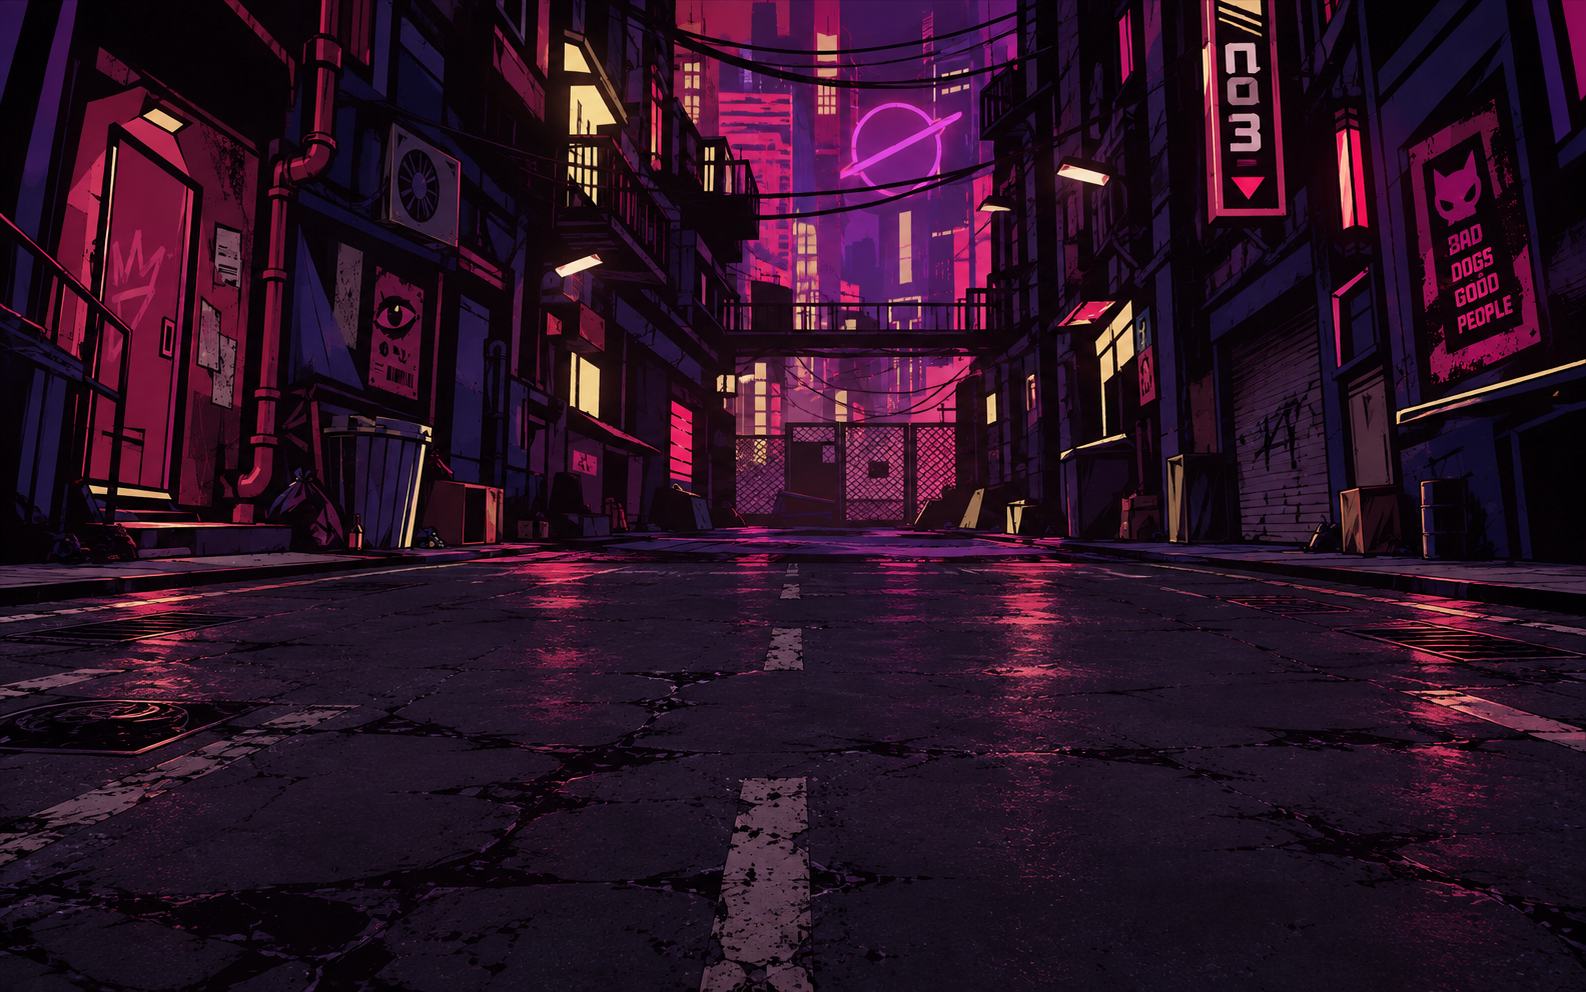
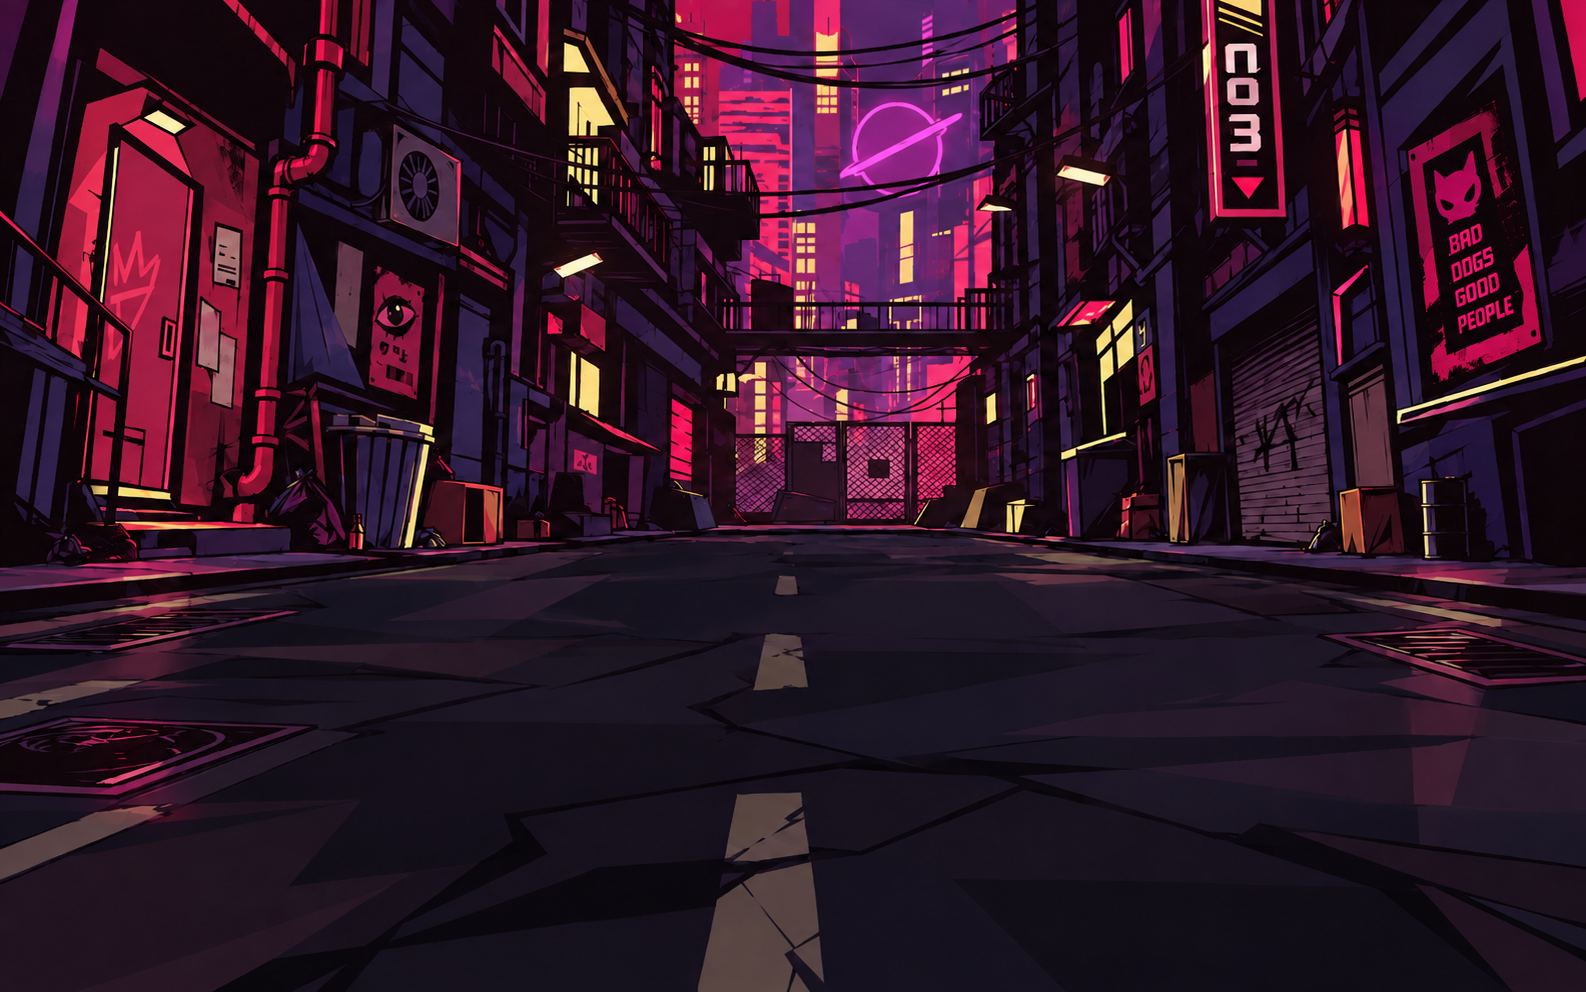
美术修改

diff --git a/docs/维护文档.md b/docs/维护文档.md
@@ -2,7 +2,7 @@
 
 本文面向继续开发本项目的人或 AI 助手，说明改动位置、需要保持的行为、测试方法和故障排查顺序。维护目标是减少功能回退、重复结算、存档丢失和界面误操作；测试覆盖的是当前原型，扩展规则时仍需补充对应检查。
 
-核对日期：**2026-10-07，Asia/Shanghai**。当前基线：**0.3.15-fix**，Godot **4.7.2 standard / Compatibility**，逻辑画布 **1440×900**，默认窗口 **1280×800**，缩放模式为 `canvas_items`。其他 Godot 4.x 版本尚不能视为已验证。
+核对日期：**2026-10-07，Asia/Shanghai**。当前基线：**0.3.17-art**，Godot **4.7.2 standard / Compatibility**，逻辑画布 **1440×900**，默认窗口 **1280×800**，缩放模式为 `canvas_items`。其他 Godot 4.x 版本尚不能视为已验证。
 
 历史变化见 [修改记录](修改记录.md)，功能接入参考 [开发接入说明](开发接入说明.md)，历史原始输出见 [验收记录](验收记录.txt)。本文描述当前代码；文中标明“扩展前需要处理”的内容尚未实现。
 
@@ -125,7 +125,7 @@
 
 ### 当前 UI 约定
 
-- 后巷战斗背景由 `assets.alley.battleAssetId = alley_battle` 指向 `assets/backgrounds/alley_battle.png`。`battle.gd.battle_background()` 优先读取地点原资源上的该可选字段；未配置或目标纹理不可用时调用原 `background()`。有专用背景时关闭 `arena.paint_ground`，直接使用插画路面，并将底部硬色块／红色分隔线替换为 y=650 起的柔和渐暗，不影响点击。对白继续读取原 `alley.png`。此轮仅完成后巷专用美术，其他地点没有新增背景。
+- 后巷战斗背景素材于2026-10-07替换为用户最新提供的暗色路面版PNG，文件字节直接复制，沿用原缩放和暗化叠层。后巷战斗背景由 `assets.alley.battleAssetId = alley_battle` 指向 `assets/backgrounds/alley_battle.png`。`battle.gd.battle_background()` 优先读取地点原资源上的该可选字段；未配置或目标纹理不可用时调用原 `background()`。有专用背景时关闭 `arena.paint_ground`，直接使用插画路面，并将底部硬色块／红色分隔线替换为 y=650 起的柔和渐暗，不影响点击。对白继续读取原 `alley.png`。此轮仅完成后巷专用美术，其他地点没有新增背景。
 - 未使用专用背景时，`scripts/combat/arena_fx.gd` 绘制 y=448—704 的渐变地面、透视铺装接缝和柔和接触阴影，替代悬浮光圈。地面位于下方手牌遮罩之前；`battle.gd` 只为实际存在的敌方立绘注册 `contact_points`，缺图敌人不显示空阴影。诺伦不绘制程序阴影；敌人落脚点为其立绘左上角加 `(230,307)`，新立绘需重新校准。诺伦原图保持不变，`white_key.gdshader` 的可选 `ground_mask` 仅在 `noren_battle` 启用，使用 `noren_shadow_mask.png` 的 alpha 清除 UV.y >= 0.90 的原图投影，其他立绘默认关闭。角色立绘、姓名、敌方HUD与点击区域、双方命中坐标通过 `ACTOR_OFFSET = (0,24)` 同步下移；敌方阴影与瞄准终点随 `enemy_position()` 移动。
 
 - 战斗中央的操作／状态提示文字已移除，包括选牌、锁定、攻击命中和手牌补充提示；伤害飘字、瞄准线与电子屏回合过场保留。 `battle.gd` 不再创建或更新 `message_label`。

diff --git a/docs/修改记录.md b/docs/修改记录.md
@@ -1,8 +1,24 @@
 # 午夜委托项目修改记录
 
-本记录说明各次修改的原因、涉及位置与验证情况，供后续维护和回退时查询。当前工程版本为 **0.3.15-fix**，以 [project.godot](../project.godot) 为准；本次更新日期为 **2026-10-07**，时区为 Asia/Shanghai。
+本记录说明各次修改的原因、涉及位置与验证情况，供后续维护和回退时查询。当前工程版本为 **0.3.17-art**，以 [project.godot](../project.godot) 为准；本次更新日期为 **2026-10-07**，时区为 Asia/Shanghai。
 
 历史记录根据已有交付内容、[验收记录](验收记录.txt)与现存代码补齐，不等同于 Git 提交历史。历史日期沿用当时验收记录；没有独立版本号或日期的修改会明确标注。今后的修改请使用本文末尾的记录模板。
+
+## 2026 年 10 月 7 日 替换暗色路面版后巷背景
+
+版本 **0.3.17-art**。按用户最新选择，将上传的 `codex-clipboard-896e659c-36aa-40a9-9d51-e95a1e7d7196.png` 直接替换 `assets/backgrounds/alley_battle.png`，与上传文件字节一致。采用更暗的路面版本，沿用现有背景缩放及界面叠层，未修改角色、手牌、脚本、战斗数据或对白背景。
+
+本轮素材重新导入成功，无脚本错误；实际运行1280×800与1600×1000，查看两种尺寸的静止和悬停共四张截图，画面正常，见 `docs/预览/暗色后巷背景`。预览禁用写档，临时工具已移除；未重跑规则和交互专项。
+
+备份：`发布归档/午夜委托_0.3.16-art_2026-10-07_替换暗色后巷前.zip`。工程包：`午夜委托_0.3.17-art_暗色后巷背景.zip`，固定R1包同步更新；逐文件核对一致，排除缓存、临时工具及用户存档。
+
+## 2026 年 10 月 7 日 替换用户修改版后巷背景
+
+版本 **0.3.16-art**。将用户本轮上传的 `codex-clipboard-294a7a8e-af1e-4874-b3c0-d3ac95d90deb.png` 直接复制为 `assets/backgrounds/alley_battle.png`（1586×992），核对文件字节完全一致。继续通过既有后巷 `battleAssetId` 加载，沿用画面缩放、暗化和底部渐变；对白背景、角色站位、卡牌尺寸、牌堆计数及战斗规则均未改变。
+
+本轮编辑器成功重新导入素材，无脚本错误。实际运行1280×800和1600×1000后巷战斗，查看两种尺寸的静止／悬停四张截图，角色落点和手牌显示正常。截图见 `docs/预览/后巷背景替换`。预览关闭存档写入，临时预览工具已移除。纯素材替换，未重跑战斗规则和交互专项，不沿用旧测试结果。
+
+备份：`发布归档/午夜委托_0.3.15-fix_2026-10-07_替换后巷背景前.zip`。交付：`午夜委托_0.3.16-art_后巷背景替换.zip`，固定R1包同步更新；逐文件核对一致，排除缓存、临时文件与用户存档。
 
 ## 2026 年 10 月 7 日 牌堆数量与动画同步修复
 

diff --git a/README.md b/README.md
@@ -9,7 +9,7 @@
 - [开发接入说明](docs/开发接入说明.md)：卡牌、敌人、资源和剧情接口的接入方式。
 - [验收记录](docs/验收记录.txt)：保留历次实际测试输出；历史通过不代表本次已重新测试。
 
-当前工程版本为 **0.3.15-fix**，更新于 **2026-10-07**。沿用赛博朋克 UI，新增战斗内“激活义体”入口和六张紫色临时义体卡。常驻回合信息移到最顶部状态栏中央，采用亮蓝配色。牌堆数字随每张牌离堆／入堆更新，回收弃牌时同步显示转移。抽牌堆、弃牌堆缩为 58×72 并移到左右下角，保持竖直圆角样式；底部按钮缩为 170×40、左右对称，调试和投降集中在右上方。后巷战斗使用专用纵深背景，巷道、路沿与角色脚下路面连为一体，手牌区使用渐暗过渡；其他地点沿用原背景或缺图占位。移除原悬浮光圈；诺伦原图中的脚底投影和额外接触阴影已隐藏。双方战斗角色整体下移 24 像素，名称、血条与攻击区域同步对齐。战斗手牌为原尺寸的 75%，按数量扇形排列，牌距收紧至约卡宽的 69%，五张时也保持约三成重叠；卡牌静止时下半部沉入屏幕底边；悬停或选中会完整浮出、转正并放大到原尺寸的 112%，移开后沉回。默认原型发五张，十张是界面容量验证，不改变正式牌组。底部操作区高度约由 280 缩为 200。
+当前工程版本为 **0.3.17-art**，更新于 **2026-10-07**。沿用赛博朋克 UI，新增战斗内“激活义体”入口和六张紫色临时义体卡。常驻回合信息移到最顶部状态栏中央，采用亮蓝配色。牌堆数字随每张牌离堆／入堆更新，回收弃牌时同步显示转移。抽牌堆、弃牌堆缩为 58×72 并移到左右下角，保持竖直圆角样式；底部按钮缩为 170×40、左右对称，调试和投降集中在右上方。后巷战斗使用用户最新提供的暗色路面版专用背景，巷道、路沿与角色脚下路面连为一体，手牌区使用渐暗过渡；其他地点沿用原背景或缺图占位。移除原悬浮光圈；诺伦原图中的脚底投影和额外接触阴影已隐藏。双方战斗角色整体下移 24 像素，名称、血条与攻击区域同步对齐。战斗手牌为原尺寸的 75%，按数量扇形排列，牌距收紧至约卡宽的 69%，五张时也保持约三成重叠；卡牌静止时下半部沉入屏幕底边；悬停或选中会完整浮出、转正并放大到原尺寸的 112%，移开后沉回。默认原型发五张，十张是界面容量验证，不改变正式牌组。底部操作区高度约由 280 缩为 200。
 
 实际画面：[主菜单](docs/预览/UI改版/主菜单.png)、[剧情对白](docs/预览/UI改版/剧情对白.png)、[机甲战斗](docs/预览/UI改版/机甲战斗.png)。
 
